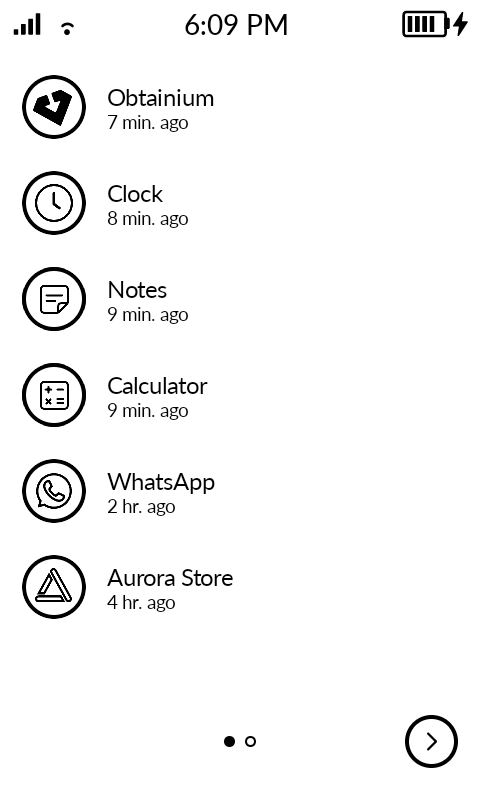
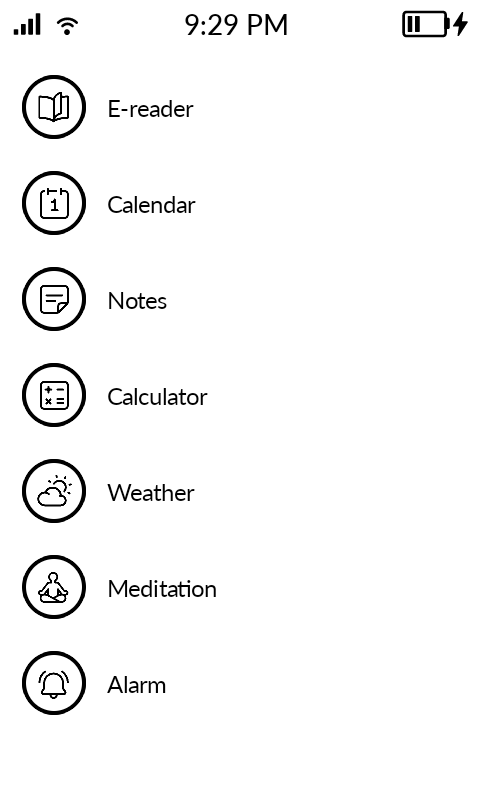
Recent apps: one calm page, names only
Drop the "x min. ago" line and the paging. Recents shows as many of
the newest apps as fit; older ones are quicker to find in All Apps.

diff --git a/app/src/main/java/com/gezimos/katapult/ui/RecentsScreen.kt b/app/src/main/java/com/gezimos/katapult/ui/RecentsScreen.kt
@@ -1,6 +1,5 @@
 package com.gezimos.katapult.ui
 
-import android.text.format.DateUtils
 import androidx.compose.foundation.background
 import androidx.compose.foundation.border
 import androidx.compose.foundation.clickable
@@ -22,13 +21,9 @@ import androidx.compose.foundation.layout.size
 import androidx.compose.foundation.layout.statusBarsIgnoringVisibility
 import androidx.compose.foundation.layout.width
 import androidx.compose.foundation.layout.windowInsetsPadding
-import androidx.compose.foundation.shape.CircleShape
 import androidx.compose.material3.Text
 import androidx.compose.runtime.Composable
-import androidx.compose.runtime.getValue
-import androidx.compose.runtime.mutableIntStateOf
 import androidx.compose.runtime.remember
-import androidx.compose.runtime.setValue
 import androidx.compose.ui.Alignment
 import androidx.compose.ui.Modifier
 import androidx.compose.ui.input.pointer.pointerInput
@@ -43,20 +38,16 @@ import com.gezimos.katapult.R
 import com.gezimos.katapult.Screen
 import com.gezimos.katapult.model.AppModel
 import com.gezimos.katapult.util.UsageHelper
-import kotlin.math.abs
 
 private val RecentRowHeight = 72.dp
 private val RecentIconSize = 48.dp
-private val PageRowBottomPadding = 16.dp
-private val PageRowHeight = ArrowSize + PageRowBottomPadding
 
-// Sits left of home; swipe right or the right arrow pages to older apps.
+// Sits left of home and shows one page only: older apps are quicker to find in All Apps.
 @OptIn(ExperimentalLayoutApi::class)
 @Composable
 fun RecentsScreen(viewModel: MainViewModel) {
     val context = LocalContext.current
     val hasPermission = remember { UsageHelper.hasPermission(context) }
-    var page by remember { mutableIntStateOf(0) }
 
     // False positive: maxHeight is read below.
     @Suppress("UnusedBoxWithConstraintsScope")
@@ -74,50 +65,33 @@ fun RecentsScreen(viewModel: MainViewModel) {
             .windowInsetsPadding(WindowInsets.navigationBarsIgnoringVisibility)
             .padding(PagePadding),
     ) {
-        // Sized in one pass, so the page row never appears late and pushes a row to the next page.
         val apps = viewModel.recentApps
         val fits = (maxHeight / RecentRowHeight).toInt().coerceAtLeast(1)
-        val showPageRow = !viewModel.prefs.hideArrowButtons && apps.size > fits
-        val perPage = if (showPageRow) ((maxHeight - PageRowHeight) / RecentRowHeight).toInt().coerceAtLeast(1) else fits
-        val totalPages = ((apps.size + perPage - 1) / perPage).coerceAtLeast(1)
         Column(
             modifier = Modifier
                 .fillMaxSize()
-                .horizontalSwipe(totalPages) { toRight ->
-                    if (toRight) {
-                        if (page < totalPages - 1) page++
-                    } else if (page > 0) {
-                        page--
-                    } else {
-                        viewModel.navigateTo(Screen.HOME)
-                    }
-                },
+                .swipeLeftToHome { viewModel.navigateTo(Screen.HOME) },
         ) {
-            Column(Modifier.fillMaxWidth().weight(1f)) {
-                if (!hasPermission || apps.isEmpty()) {
-                    RecentsEmpty(hasPermission)
-                } else {
-                    apps.drop(page * perPage).take(perPage).forEach { (app, lastUsed) ->
-                        RecentRow(viewModel, app, lastUsed)
-                    }
+            if (!hasPermission || apps.isEmpty()) {
+                RecentsEmpty(hasPermission)
+            } else {
+                apps.take(fits).forEach { app ->
+                    RecentRow(viewModel, app)
                 }
             }
-            if (showPageRow) RecentsPageRow(page, totalPages) { page = it }
         }
     }
 }
 
-private fun Modifier.horizontalSwipe(
-    key: Any,
-    onSwipe: (toRight: Boolean) -> Unit,
-) = pointerInput(key) {
-    var accumulated = 0f
-    detectHorizontalDragGestures(
-        onDragStart = { accumulated = 0f },
-        onDragEnd = { if (abs(accumulated) > 17.5.dp.toPx()) onSwipe(accumulated > 0) },
-        onHorizontalDrag = { _, dragAmount -> accumulated += dragAmount },
-    )
-}
+private fun Modifier.swipeLeftToHome(onHome: () -> Unit) =
+    pointerInput(Unit) {
+        var accumulated = 0f
+        detectHorizontalDragGestures(
+            onDragStart = { accumulated = 0f },
+            onDragEnd = { if (accumulated < -17.5.dp.toPx()) onHome() },
+            onHorizontalDrag = { _, dragAmount -> accumulated += dragAmount },
+        )
+    }
 
 @Composable
 private fun RecentsEmpty(hasPermission: Boolean) {
@@ -155,63 +129,13 @@ private fun RecentsEmpty(hasPermission: Boolean) {
 }
 
 @Composable
-private fun RecentsPageRow(
-    page: Int,
-    totalPages: Int,
-    onPage: (Int) -> Unit,
-) {
-    Row(
-        modifier = Modifier
-            .fillMaxWidth()
-            .padding(start = 8.dp, end = 8.dp, bottom = PageRowBottomPadding),
-        verticalAlignment = Alignment.CenterVertically,
-    ) {
-        // Arrows line up with the icon column and the right edge of RecentRow.
-        Box(Modifier.width(RecentIconSize), contentAlignment = Alignment.Center) {
-            if (page > 0) ArrowButton(R.drawable.ic_arrow_left) { onPage(page - 1) }
-        }
-        Row(Modifier.weight(1f), horizontalArrangement = Arrangement.Center) {
-            for (i in 0 until totalPages) {
-                Box(
-                    Modifier
-                        .padding(horizontal = 4.dp)
-                        .size(8.dp)
-                        .then(
-                            if (i == page) {
-                                Modifier.background(LocalInk.current, CircleShape)
-                            } else {
-                                Modifier.border(1.5.dp, LocalInk.current, CircleShape)
-                            },
-                        ),
-                )
-            }
-        }
-        Box(Modifier.width(RecentIconSize), contentAlignment = Alignment.CenterEnd) {
-            if (page < totalPages - 1) ArrowButton(R.drawable.ic_arrow_right) { onPage(page + 1) }
-        }
-    }
-}
-
-@Composable
 private fun RecentRow(
     viewModel: MainViewModel,
     app: AppModel,
-    lastUsed: Long,
 ) {
     val context = LocalContext.current
-    val now = System.currentTimeMillis()
     val sizePx = with(LocalDensity.current) { RecentIconSize.roundToPx() }
     val bitmap = rememberAppIcon(app.packageName, app.activityName, "", sizePx, 0)
-    val ago = if (now - lastUsed < DateUtils.MINUTE_IN_MILLIS) {
-        stringResource(R.string.recent_apps_just_now)
-    } else {
-        DateUtils.getRelativeTimeSpanString(
-            lastUsed,
-            now,
-            DateUtils.MINUTE_IN_MILLIS,
-            DateUtils.FORMAT_ABBREV_RELATIVE,
-        ).toString()
-    }
     Row(
         modifier = Modifier
             .fillMaxWidth()
@@ -222,22 +146,14 @@ private fun RecentRow(
     ) {
         AppIconCircle(bitmap = bitmap, size = RecentIconSize)
         Spacer(Modifier.width(16.dp))
-        Column(Modifier.weight(1f)) {
-            Text(
-                text = app.label,
-                fontSize = 18.sp,
-                fontFamily = LatoFamily,
-                color = LocalInk.current,
-                maxLines = 1,
-                overflow = TextOverflow.Ellipsis,
-            )
-            Text(
-                text = ago,
-                fontSize = 14.sp,
-                fontFamily = LatoFamily,
-                color = LocalInk.current,
-                maxLines = 1,
-            )
-        }
+        Text(
+            text = app.label,
+            modifier = Modifier.weight(1f),
+            fontSize = 18.sp,
+            fontFamily = LatoFamily,
+            color = LocalInk.current,
+            maxLines = 1,
+            overflow = TextOverflow.Ellipsis,
+        )
     }
 }

diff --git a/app/src/main/java/com/gezimos/katapult/MainViewModel.kt b/app/src/main/java/com/gezimos/katapult/MainViewModel.kt
@@ -81,7 +81,7 @@ class MainViewModel(
         private set
     var currentPage by mutableIntStateOf(0)
         private set
-    var recentApps by mutableStateOf(listOf<Pair<AppModel, Long>>())
+    var recentApps by mutableStateOf(listOf<AppModel>())
         private set
     var clockTime by mutableStateOf("")
         private set
@@ -577,6 +577,7 @@ class MainViewModel(
             .distinctBy { it.packageName }
             .mapNotNull { app -> lastUsed[app.packageName]?.let { app to it } }
             .sortedByDescending { it.second }
+            .map { it.first }
     }
 
     fun launchApp(

diff --git a/README.md b/README.md
@@ -37,7 +37,7 @@ A fork of [Katapult](https://github.com/gezimos/Katapult) by Gezim, maintained a
 
 ## What this fork adds
 
-- **Recent apps**: swipe left to right on the home screen, or press the home button twice quickly, for a list of the apps you used since the phone started, newest first, with how long ago. Tap an app to return to it where you left it. Needs Usage Access.
+- **Recent apps**: swipe left to right on the home screen, or press the home button twice quickly, for the apps you used last, newest first. One page only; older apps are in All Apps. Tap an app to return to it where you left it. Needs Usage Access.
 - **Notification list**: swipe down from the status bar, from any app, to see your notifications instead of MuditaOS's quick settings. Tap one to open it, long-press to clear it, swipe up to close. Needs the Action Service.
 - **Open notifications from the lock screen**: tap an app in the Lockscreen Notifications widget to unlock and open its newest notification. The Mudita Phone row opens the call log.
 - Notification counts no longer stay one too high when an app groups its notifications.
